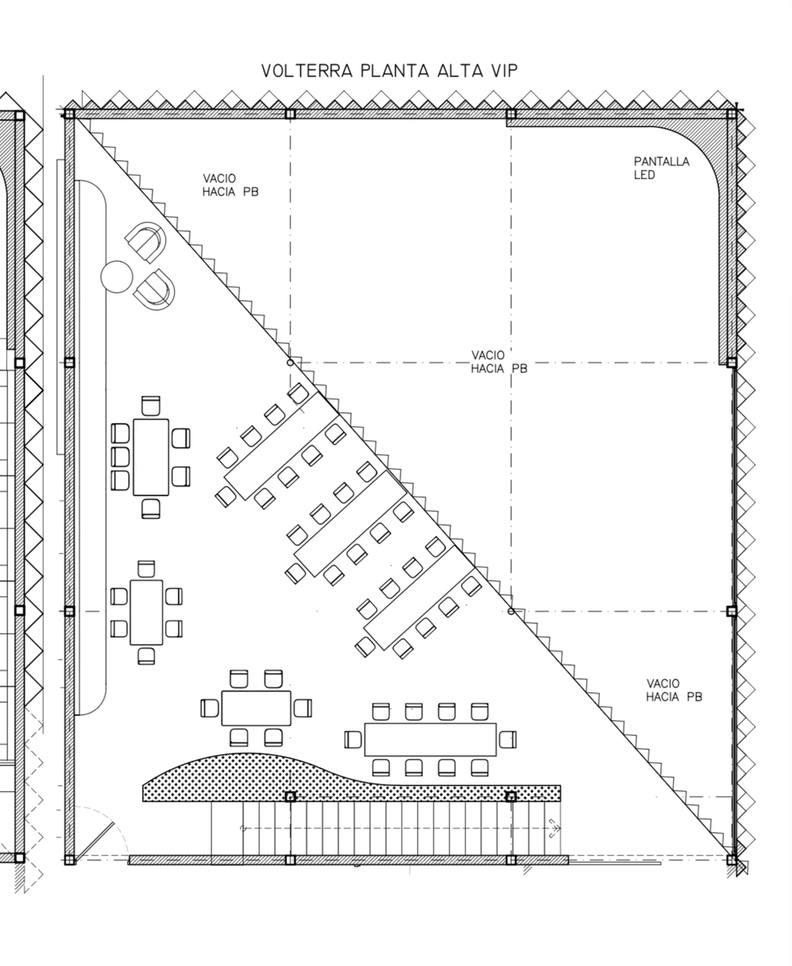
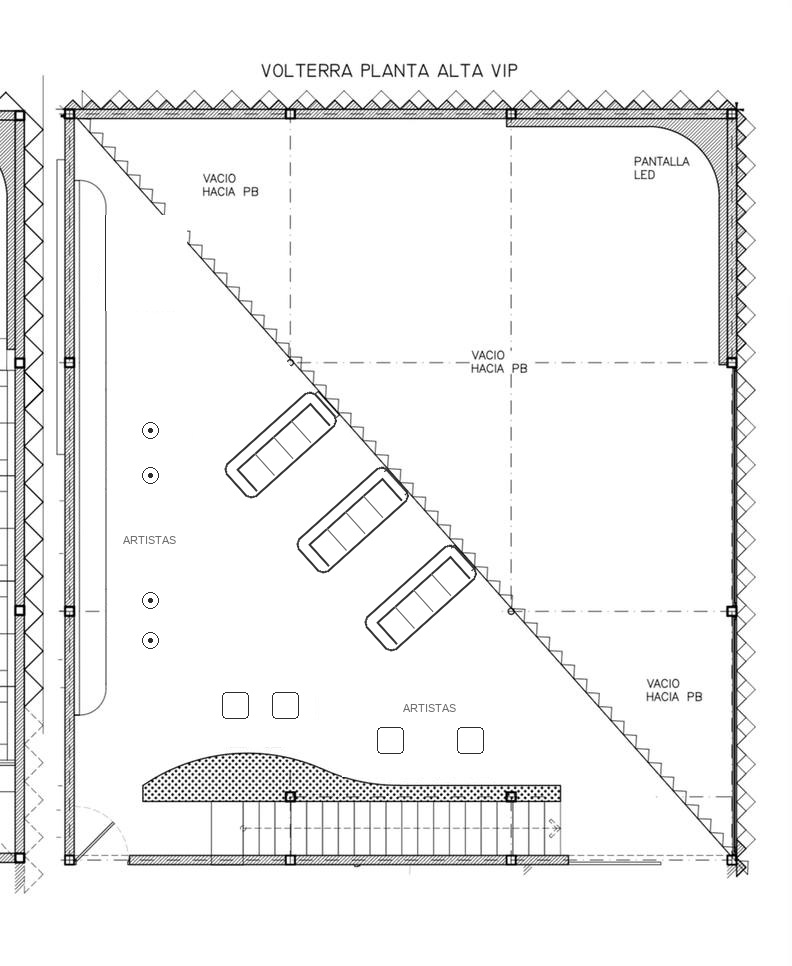
Plano VIP corregido: zona de artistas sin mesas, tres sofás de patrocinadores dibujados; migración 0006 ajusta los recuadros

diff --git a/tests/db.test.ts b/tests/db.test.ts
@@ -38,6 +38,7 @@ beforeAll(async () => {
   await db.exec(sql('0002_seed.sql'));
   await db.exec(sql('0004_puestos_sueltos.sql'));
   await db.exec(sql('0005_vip_patrocinadores.sql'));
+  await db.exec(sql('0006_sofas_en_el_plano.sql'));
   admin = (await one<{ id: string }>("insert into auth.users (email) values ('tio@volterra.test') returning id")).id;
   seller = (await one<{ id: string }>("insert into auth.users (email) values ('vendedor@volterra.test') returning id")).id;
   tableId = (await one<{ id: string }>("select id from tables where code = 'PB-04'")).id; // 10 puestos
